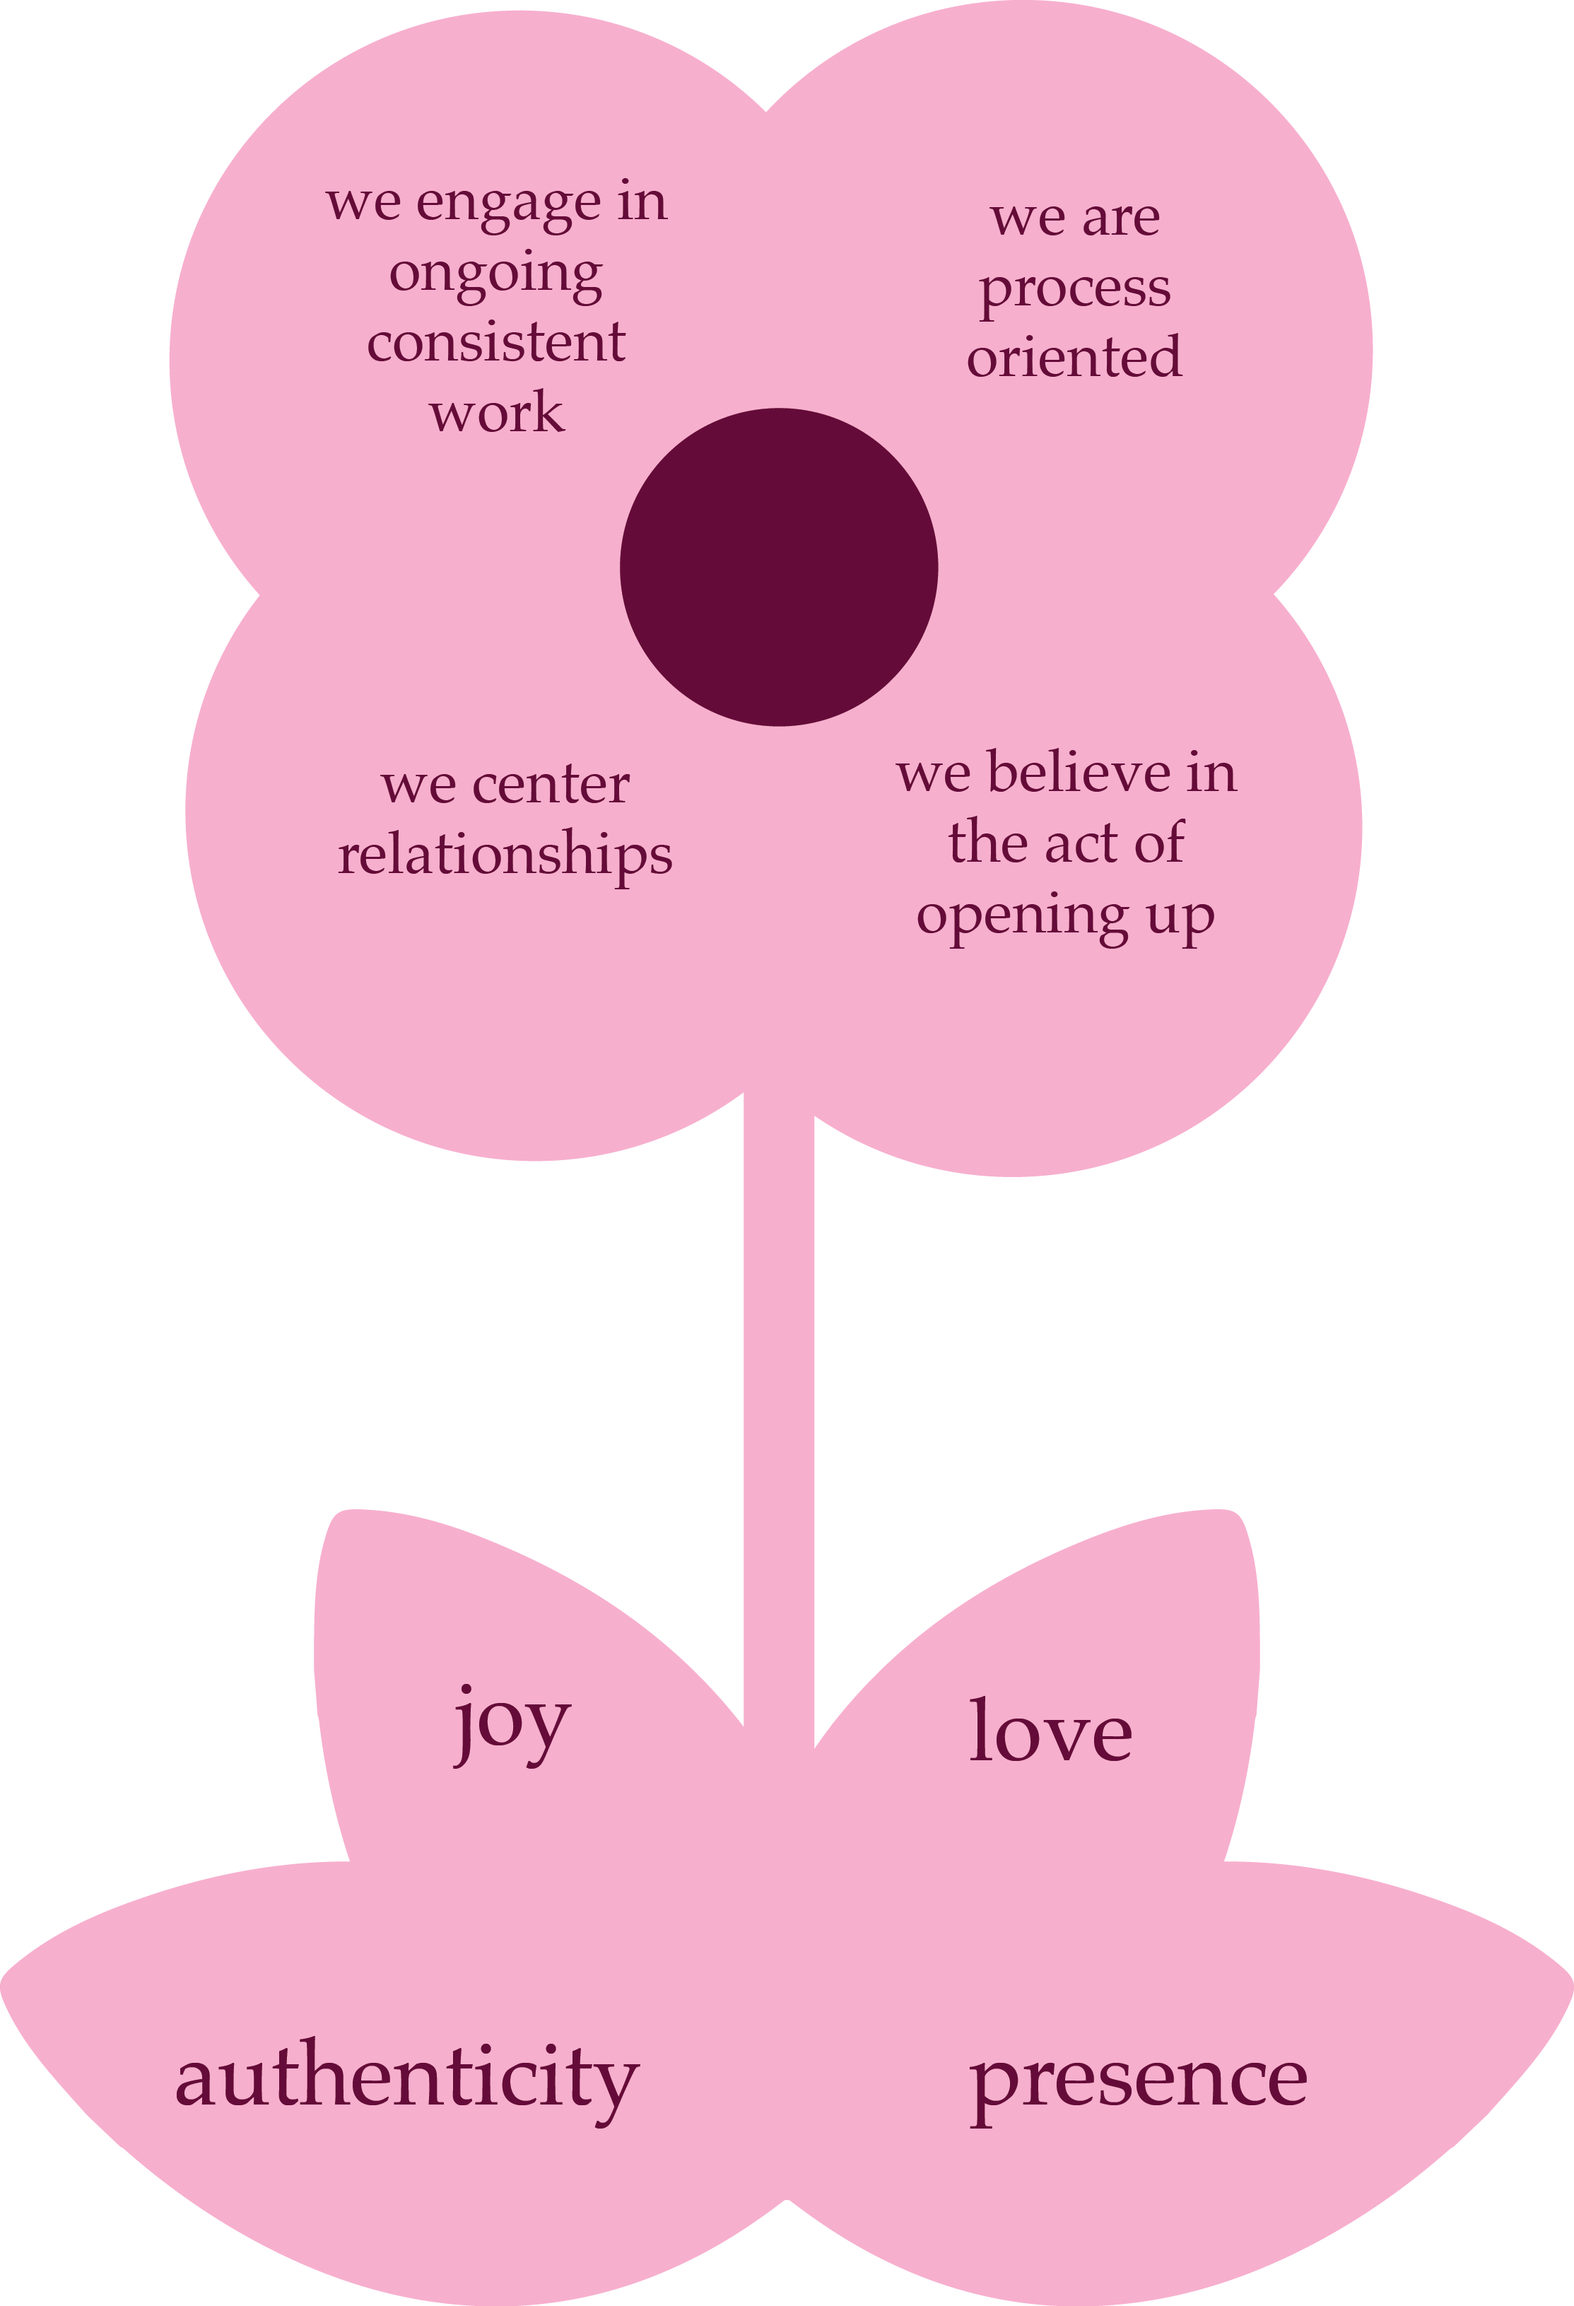
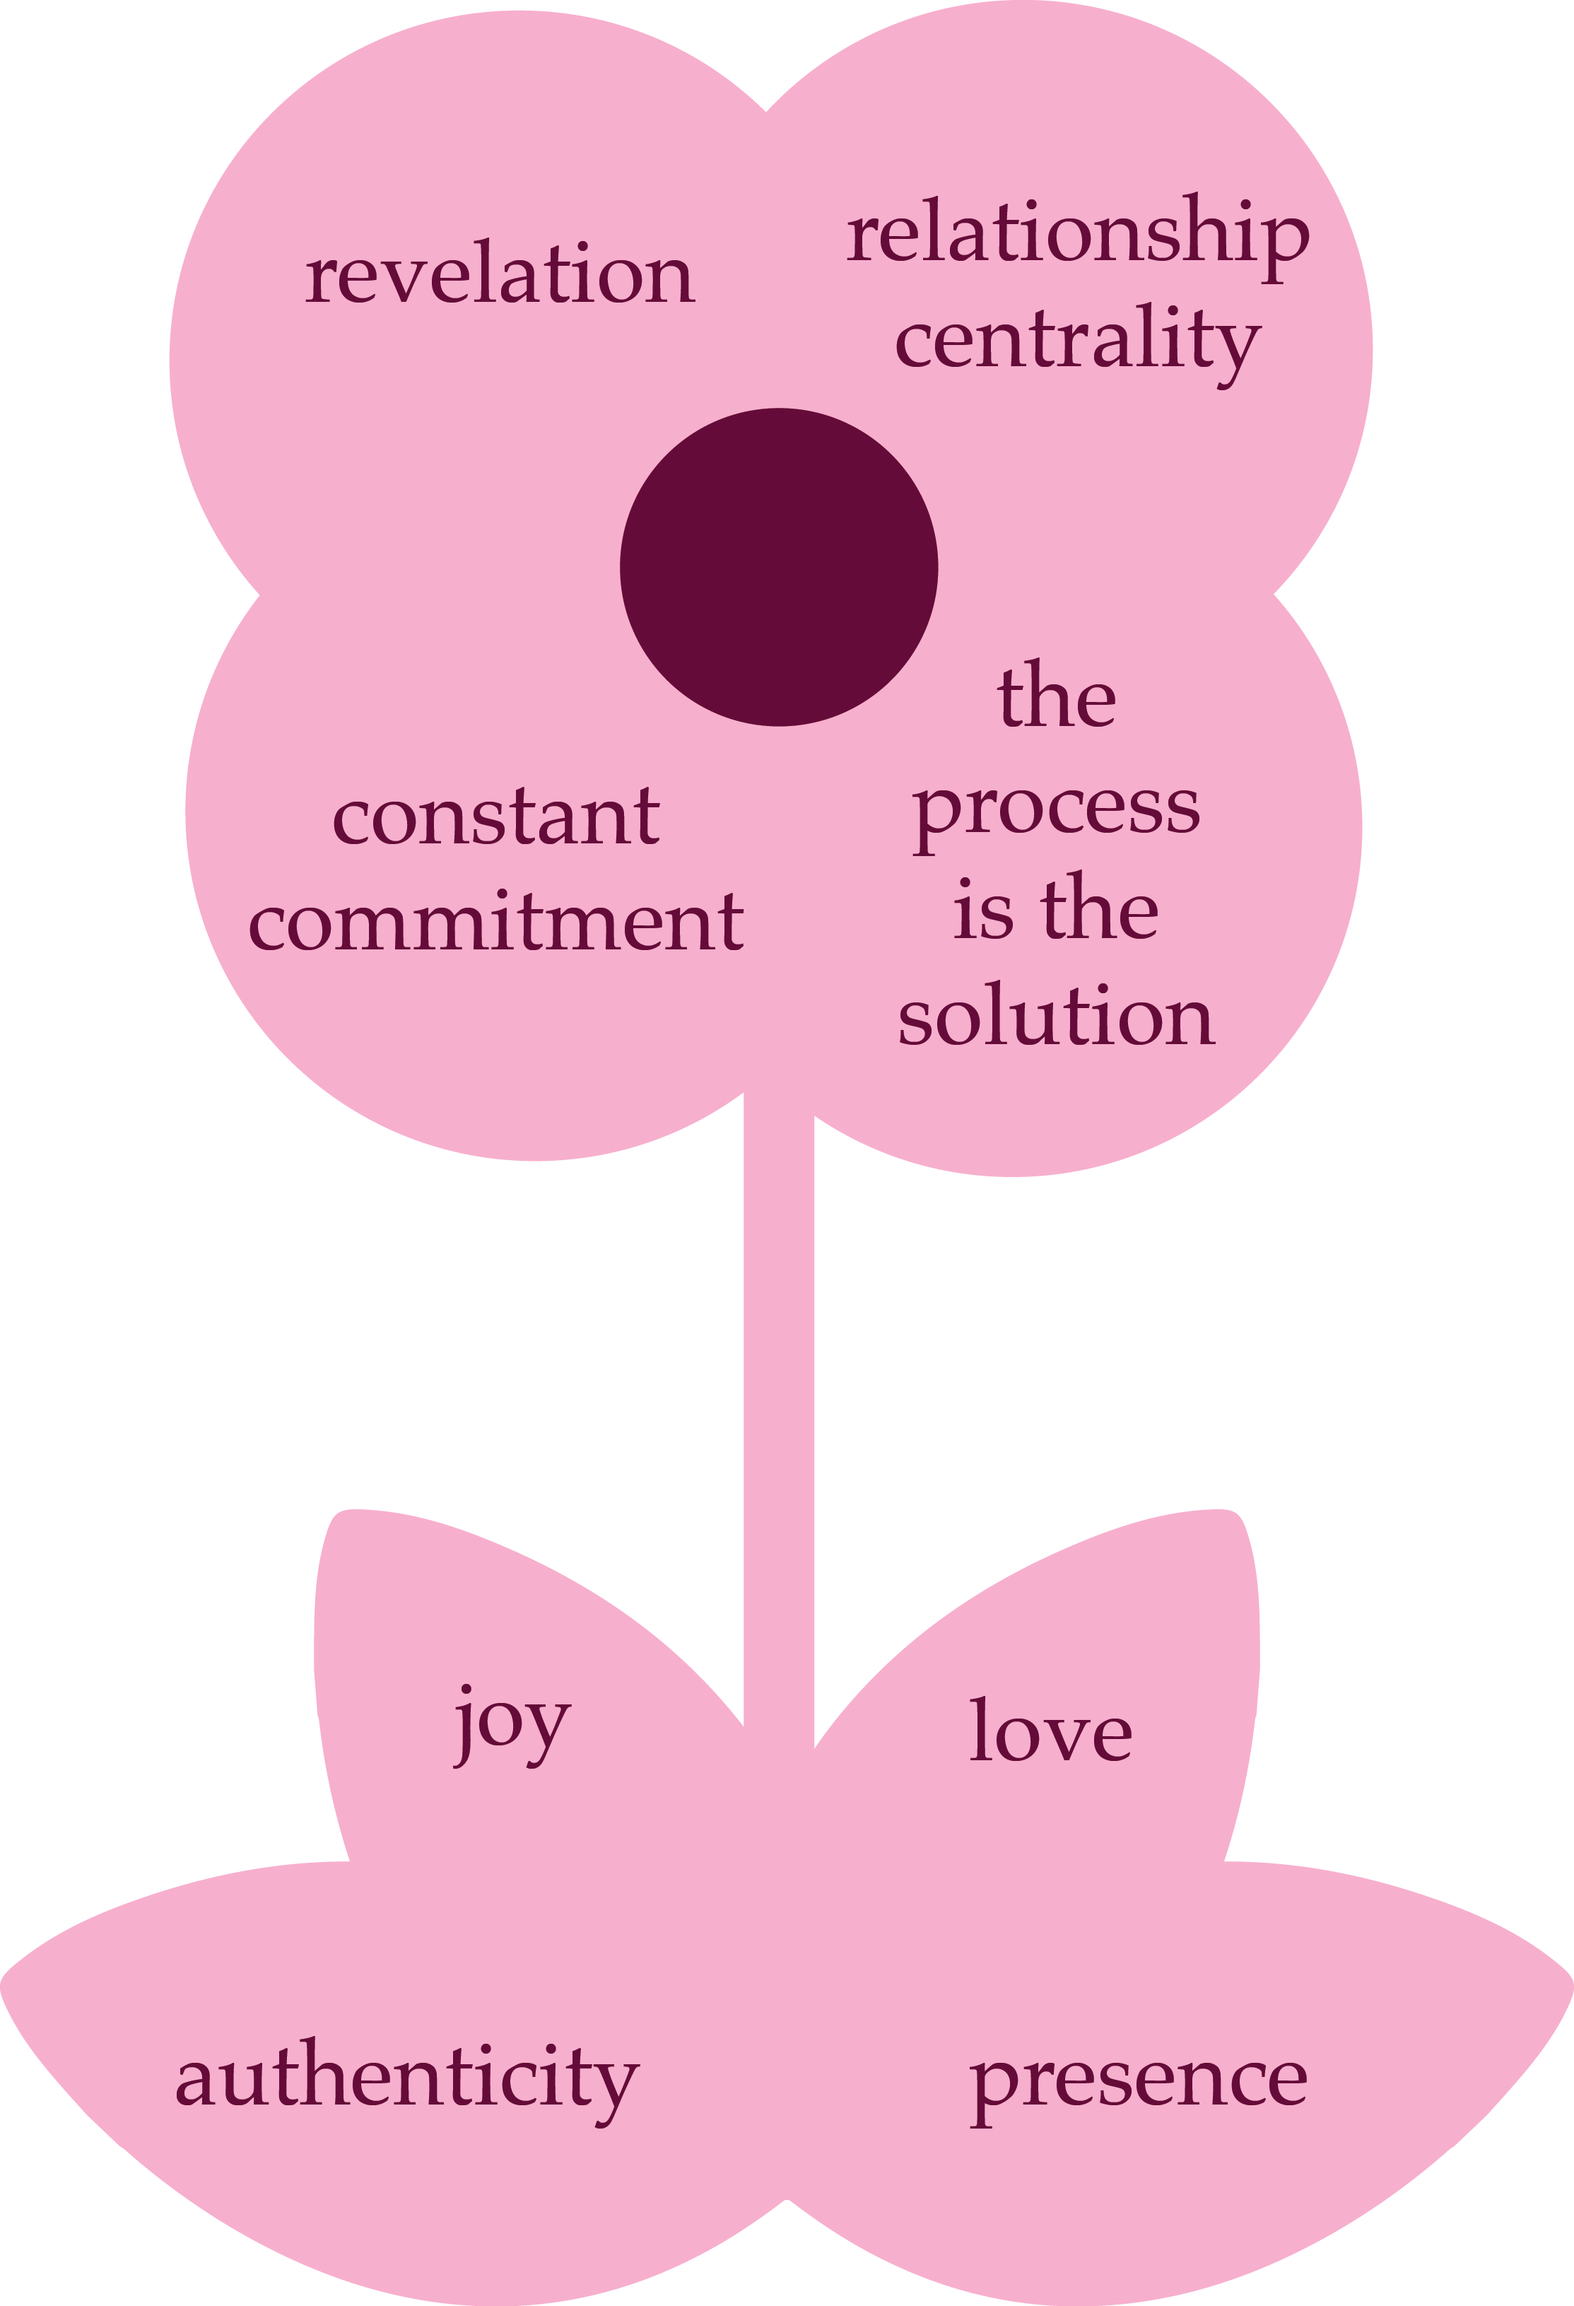
update language

diff --git a/our_methodology.html b/our_methodology.html
@@ -72,32 +72,40 @@
 
     <div id="content">
     <div class="row">
-<p>our methodology springs from the perspective of an urban farm. for nature, <b style="font-size:20px;">diversity is essential to survive and thrive.</b> each plant requires particular conditions to grow successfully. by examining the mechanism of plant growth, we can adopt practices that enable our working environment to flourish. through our learnings from the farm, we bring in teachings to emulate prosperous models of growth. our hope is to address gender issues through the wisdom of nature. we hope to optimize working conditions by shifting culture in the workspace to be more inclusive and supportive.</p>
+<p><b style="font-size:20px;">we believe that a healthy business culture is at the heart of a successful product. </b> 
+<br><br>
+if your business' culture does not support your employees, then the whole business suffers. from ineffectual communication patterns to lack of transparency in decision making and process and low retention rates, the success of the business is damaged. the impact of culture on product is subtle and powerful. it is often difficult so see the direct link between them. yet the link is there and can be seen through company productivity, effective communication across teams and management and satisfaction of employees.
+</p>
 
+<br>
+<b style="font-size:20px;">our theory : garden meets tech</b><br><br>
+<p>our methodology springs from the perspective of an urban farm. in nature, diversity is essential to survive and thrive. each plant requires particular conditions to grow successfully. by examining the mechanism of plant growth, we can adopt practices that enable our working environment to flourish. through our learnings from the farm, the optimal model of a healthy ecosystem, we bring in teachings to emulate prosperous models of growth.</p>
 <img src="img/rumi.png" class="rumi">
 
-<p>we believe that <b style="font-size:20px;">culture is at the heart of product.</b> if the culture is harmful, then our whole business suffers. often, we don’t see the direct link between culture and product - yet it is there subtly but powerfully. </p>
+<p>our aim is to address gender diversity issues through the lens of nature. we optimize working conditions by shifting culture in the workspace to be more inclusive and supportive of each person’s needs for growth.
+</p>
 
-<p>similarly, we often can’t recognize gender discrimination in the workplace. yet again, it is there subtle and powerful. gender inequality is deeply rooted in our societal culture - we are all affected by its presence. to truly bloom as businesses, we must confront gender discrimination in the workplace.  </p>
 
+<p>our work focuses on engaging with the root of the problem: how did we get to this moment in history, how do we understand ourselves and our co-workers through the lens of our own gender bias. we create a container to tackle these issues in a responsible and safe way. the work happens through multiple angles: <li>personal reflection</li> <li>group dynamics</li> <li>connection to leadership</li> <li>theory</li> </p>
 
-<p>our theory of change involves engaging with the roots: how it is that we got to this moment in history and how we understand ourselves and others through the lens of gender. the work happens through multitude angles: personal reflection, group dynamics, and theory. we provide the strategy plan and the facilitation to guide you in this process. </p>
+<br>
 
+<b style="font-size:20px;">our technique : ecosystem driven learning</b><br><br>
+
+<p>we know this work is hard. we harvested wisdom to support you along the way. we will provide your company with the strategy plan and the facilitation to guide you in this process and shift your business’ culture based on our guiding principles:</p> 
 <img src="img/values.png" class="values">
 
-<p>we know this work is hard. we harvested wisdom to support us along the way.</p> 
+<p><b style="font-size:20px;">constant commitment</b>
+<br>we engage in ongoing consistent work: because the nature of this work is deeply rooted, it often means it is hidden from the surface. there are no one time solutions for gender discrimination. rather, we must be doing the work consistently. </p>
 
-<p><b style="font-size:20px;">we engage in ongoing consistent work</b>
-<br> because the nature of this work is deeply rooted, it often means it is hidden from the surface. there are no one time solutions for gender discrimination. rather, we must be doing the work consistently. </p>
+<p><b style="font-size:20px;">relationship centrality</b> 
+<br>we emphasize relationships: we know about ourselves through the ways we relate to others. relationships are at the core. dialogue and understanding the other is at the heart of the work.</p>
 
-<p><b style="font-size:20px;">we center relationships</b> 
-<br>we know about ourselves through the ways we relate to others. relationships are at the core. dialogue and understanding the other is at the heart of the work. </p>
+<p><b style="font-size:20px;">revelation</b>
+<br>we believe in the act of opening up: when engaging in this work, openness is essential. the more we open up, the closer we get to understanding.</p>
 
-<p><b style="font-size:20px;">we believe in the act of opening up</b>
-<br> when engaging in this work, openness is essential. the more we open up, the closer we get to understanding. </p>
-
-<p><b style="font-size:20px;">we are process oriented</b> 
-<br>we believe the process is the solution. this can be challenging if we desire quick results. only through process will we begin to uncover the hidden layers of our culture. </p>
+<p><b style="font-size:20px;">the process is the solution</b> 
+<br>we are process oriented: we believe the process is the solution. this can be challenging if we desire quick results. only through process will we begin to uncover the hidden layers of our culture.</p>
 <br>
 <p>our guiding principles are joy, authenticity, presence and love. </p>
 <p><b style="font-size:20px;">joy</b> enables us to access life’s energy - the parts within us that desires to grow. </p>

diff --git a/partner_with_us.html b/partner_with_us.html
@@ -75,29 +75,29 @@
     <hr>
    <p>our signature program includes:</p>
 <br>
-    <b style="font-size:20px;">vision session</b>
-    <p>meet with company leaders to discuss current company culture and desired outcome from this partnership. we develop a customized value-driven plan based on your company needs and values. we work in partnership - this means we want to hear from you what changes you want to see and what are the current problems.</p>
+    <b style="font-size:20px;">forming foundation: vision meeting point </b>
+    <p>we converge with company leaders to align our visions for partnership and discuss current company culture. our next-steps are designed collaboratively; your customized pivot to bloom strategy is informed by our cultivated relationships with leadership and employees. </p>
 <br>
 
-    <b style="font-size:20px;">1:1's with employees</b>
-    <p>engage in dialogue with employees in a safe and confidential manner. provide advice and coaching around navigating gender-related conflict in the workplace. this helps us understand what is going on in the company through various perspectives and angles.</p>
+    <b style="font-size:20px;">building relationships: 1:1’s with employees </b>
+    <p>we create a container to engage in dialogue on gender in the workplace with employees through our weekly office hours. our conversations are confidential to ensure safety. we provide coaching around navigating gender-related conflict in the workplace.  </p>
 <br>
 
-    <b style="font-size:20px;">group workshops</b>
-    <p>facilitate activities, discussion, and reflection through various group forms (by team, role, gender, etc). workshops are tailored based on strategy and are interactive and participant focused</p>
+    <b style="font-size:20px;">cultivating space : group workshops</b>
+    <p>we facilitate activities, discussion, and reflection through various group forms (by team, role, gender, etc). workshops are tailored based on strategy and are interactive and participant focused.</p>
 <br>
 
-    <b style="font-size:20px;">strategy and progress sessions</b>
-    <p>sustained channel of communication with leadership to open communication, share learnings, and provide assessments. we discuss feedback on partnership and the progress the company is making.</p>
+    <b style="font-size:20px;">planting dialogue : strategy and progress sessions</b>
+    <p>we develop a sustained channel of communication with leadership to open communication, share learnings, and provide assessments. we discuss feedback on partnership and progress of the company.</p>
 <br>
-    <b style="font-size:20px;">handbook guide</b>
-    <p>curriculum for each employee with teachings from gender theory, philosophy, psychology and nature to guide our learning. handbook includes a guidebook that provides questions for personal reflection to digest learnings. </p>
+    <b style="font-size:20px;">growing wisdom : handbook / action guide</b>
+    <p>curriculum for each employee with teachings from gender theory, philosophy, psychology and nature to guide our learning. handbook includes a guidebook that provides questions for personal reflection to digest learnings.</p>
     <hr>
 
-    <p>partnership with us is a mutual relationship: you commit to investing in a sustained value-driven plan, we commit to meaningful and impactful change in your company culture.</p>
+    <p>a partnership with pivot to bloom is a mutual relationship: you commit to investing in a sustained value-driven plan, we commit to meaningful and impactful change in your company culture.</p>
             <br>
 
-    <b><p style="font-size:20px;"><a href="mailto:hadar@pivottobloom.com">contact us to schedule a meeting</a></p></b>
+    <b><p style="font-size:20px;"><a href="mailto:hadar@pivottobloom.com">contact us to talk further</a></p></b>
         <br>
 
 

diff --git a/css/my.css b/css/my.css
@@ -25,11 +25,17 @@ h6 {
 p {
     font-size: 1.25em;
     line-height: 2;
+    text-transform: lowercase;
 }
 
 b {
     font-weight: 800;
 
+}
+
+.row li {
+    font-size: 1.25em;
+    line-height: 2;
 }
 
 
@@ -169,16 +175,17 @@ width:300px;
     width: 250px;
     height: auto;
     display: inline;
-    float: left;
-    margin-right: 4%;
+    float: right;
+    margin-left: 4%;
+
 }
 
 .values {
-    padding-top: 5%;    
-    padding-bottom: 5%;
-    width: 450px;
-     display: inline;
-    float: right;
+    margin-right: 4%;
+
+    width: 400px;
+    display: inline;
+    float: left;
 }
 .flower {
 position: absolute; 
@@ -188,7 +195,7 @@ height: 100%;
 }
 
 .intro {
-font-size: 20px;
+font-size: 16px;
     font-weight: bold;
     left: 80px;
     right: 80px;

diff --git a/founder.html b/founder.html
@@ -86,6 +86,7 @@
             <p>hadar is excited by worlds colliding. merging the farm world with tech culture is an illuminating and exciting endeavor. she firmly believes that tech will gain an immeasurable amount by investing in diversity initiatives.</p>
 
             <b><p style="font-size:18px;">email <a href="mailto:hadar@pivottobloom.com">hadar@pivottobloom.com</a></p></b>
+            <p style="font-size:18px;">follow her on <a href="            https://medium.com/@hadarcohen32">medium</a></p>
 
             </div>
             </div>
